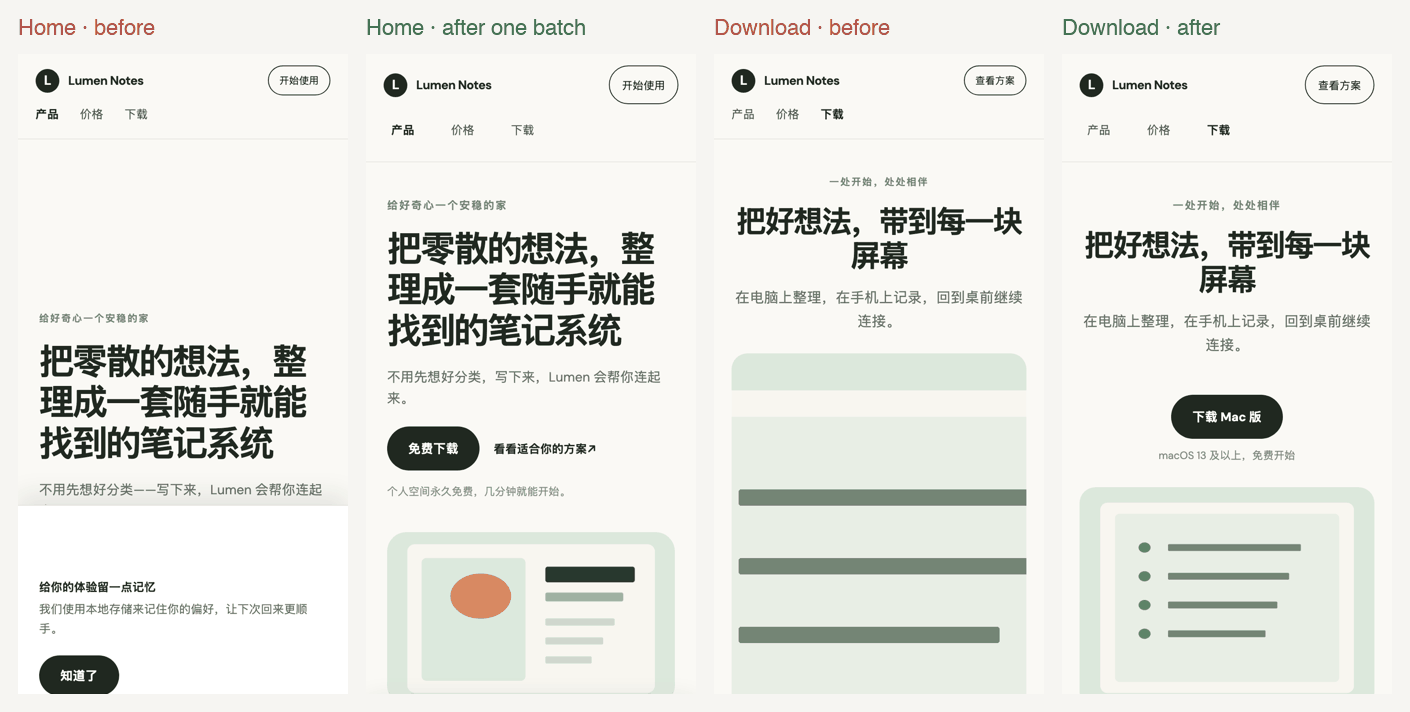
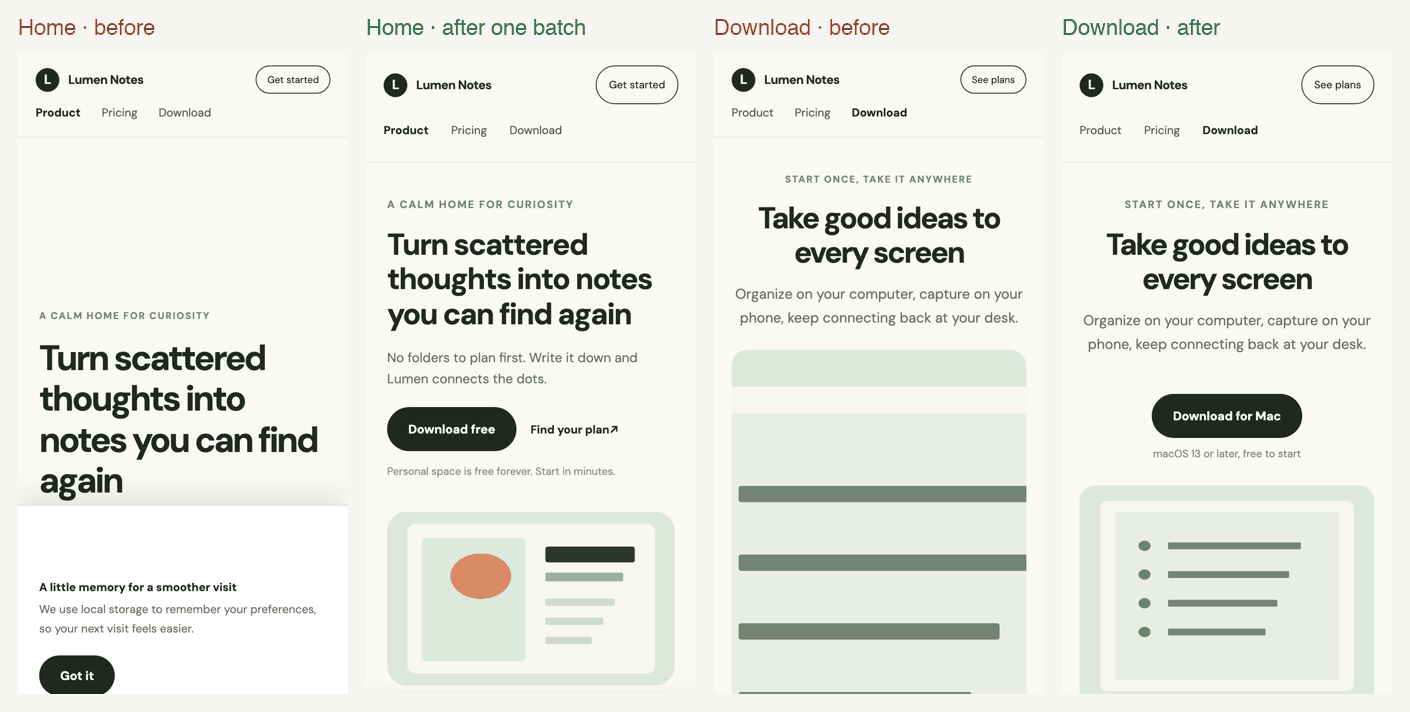
README images from an English demo site; Chinese README keeps the Chinese-site image

diff --git a/README.md b/README.md
@@ -4,9 +4,9 @@
 
 [中文说明](README.zh.md)
 
-![One batch on the bundled demo site: the cookie banner no longer covers the main button, the download button moves into the first screen](media/before-after.png)
+![One batch on a demo site: the cookie banner stops covering the main button, and the download button moves into the first screen](media/before-after.png)
 
-<sub>One batch on a demo site with planted problems. The first layout check failed 15 of 15 page-width combinations; after 16 small commits, 14 pass. The one left is a heading that stays three lines on phones because its text is a search field the redesign may not reword.</sub>
+<sub>One batch on a demo site with planted problems. The first layout check failed 15 of 15 page-width combinations; after 18 small commits, 14 pass. The one left is a heading that stays three lines on phones because its text is a search field the redesign may not reword.</sub>
 
 Given the same brief, everyone ships about the same features. What makes one site stand out is visuals, interaction, motion and smoothness, and that is hard to improve with an AI agent alone: it grades its own work generously, small fixes stall, and "make it better" has no finish line. This skill turns polishing into a loop with a real ruler:
 

diff --git a/README.zh.md b/README.zh.md
@@ -4,7 +4,7 @@
 
 [English](README.md)
 
-![自带演示站跑完一批：cookie 提示不再盖住主按钮，下载按钮挪进第一屏](media/before-after.png)
+![演示站跑完一批：cookie 提示不再盖住主按钮，下载按钮挪进第一屏](media/before-after-zh.png)
 
 <sub>在一个故意埋了问题的演示站上跑了一批：第一次布局体检，15 个「页面 × 宽度」组合全部不过；16 个小提交以后，14 个通过。剩下那一个是手机上首页标题排成三行，标题文字属于搜索字段，改版不能改字。</sub>
 
